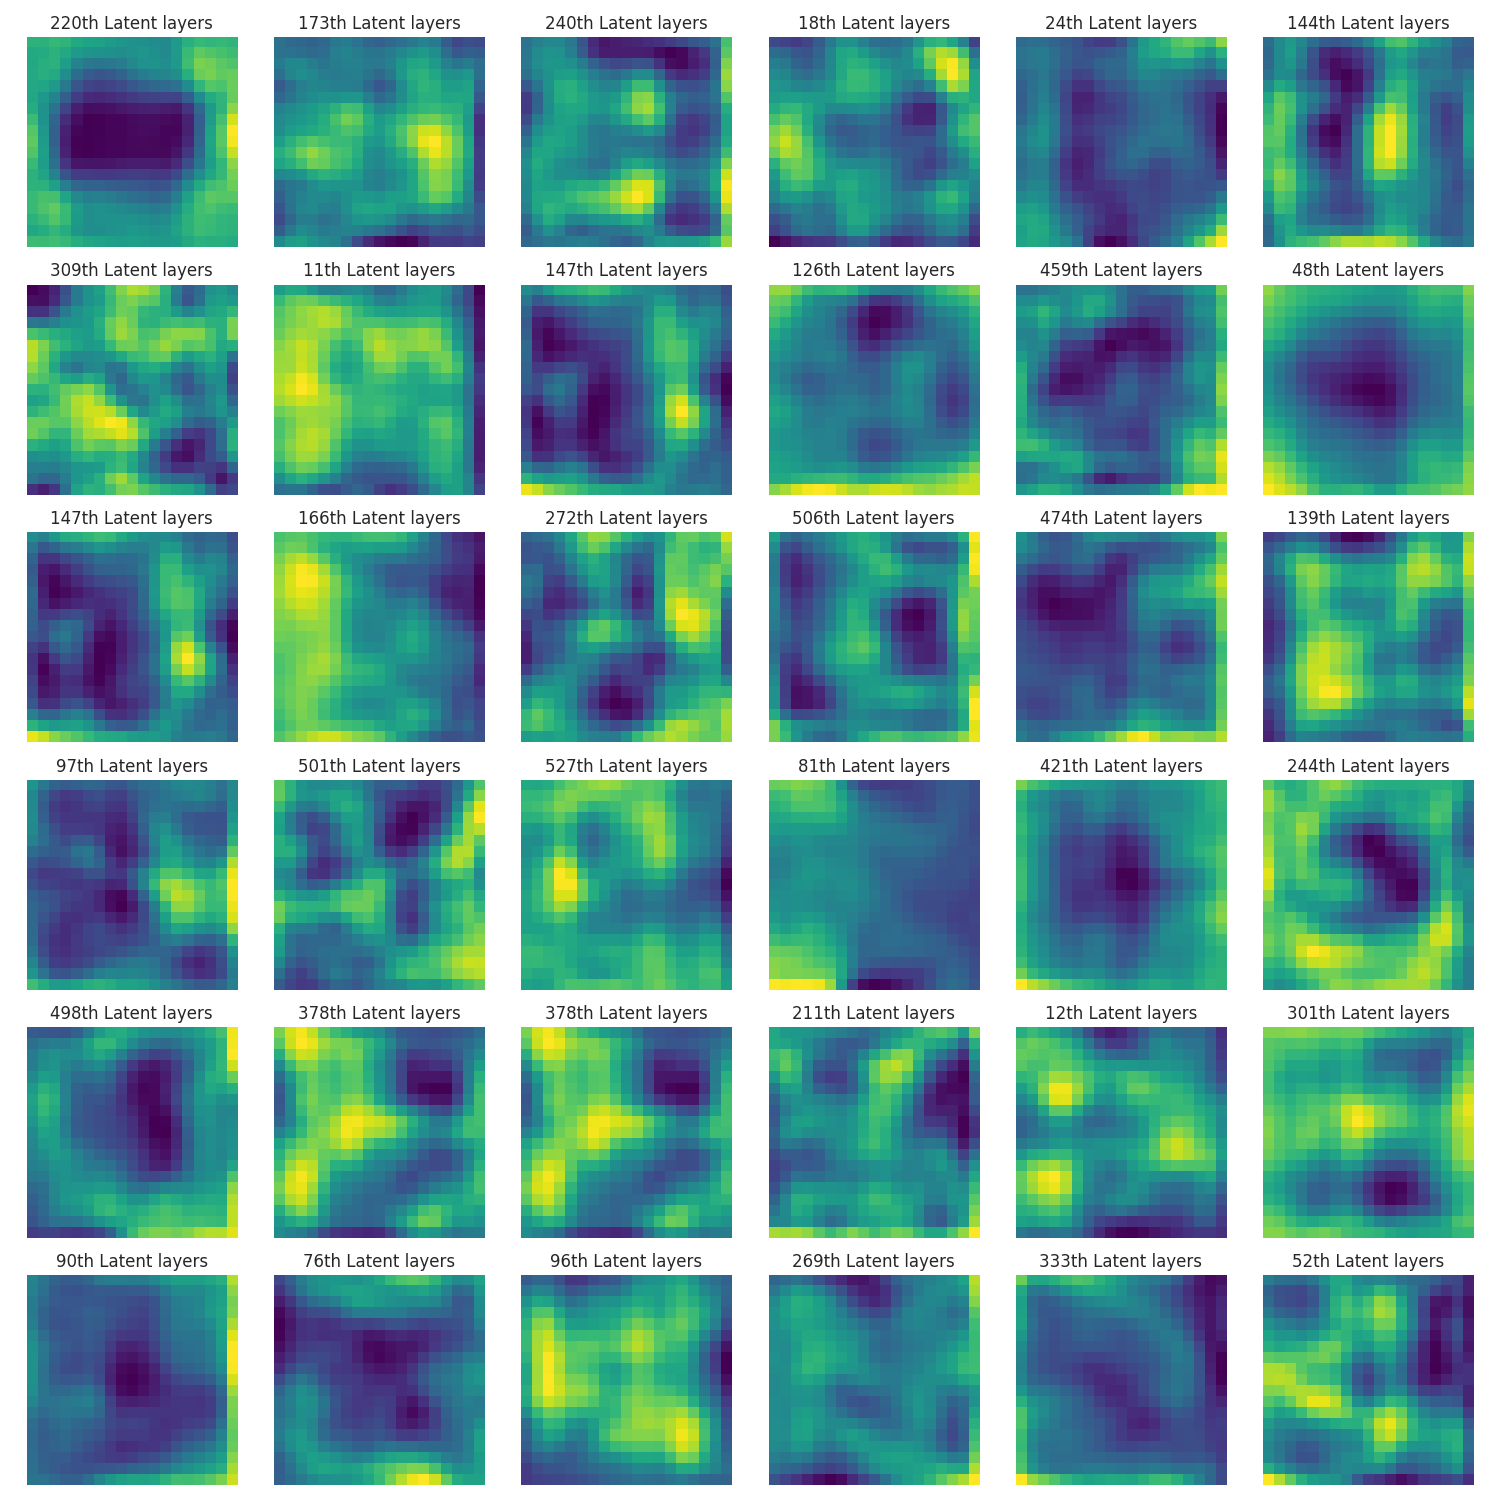
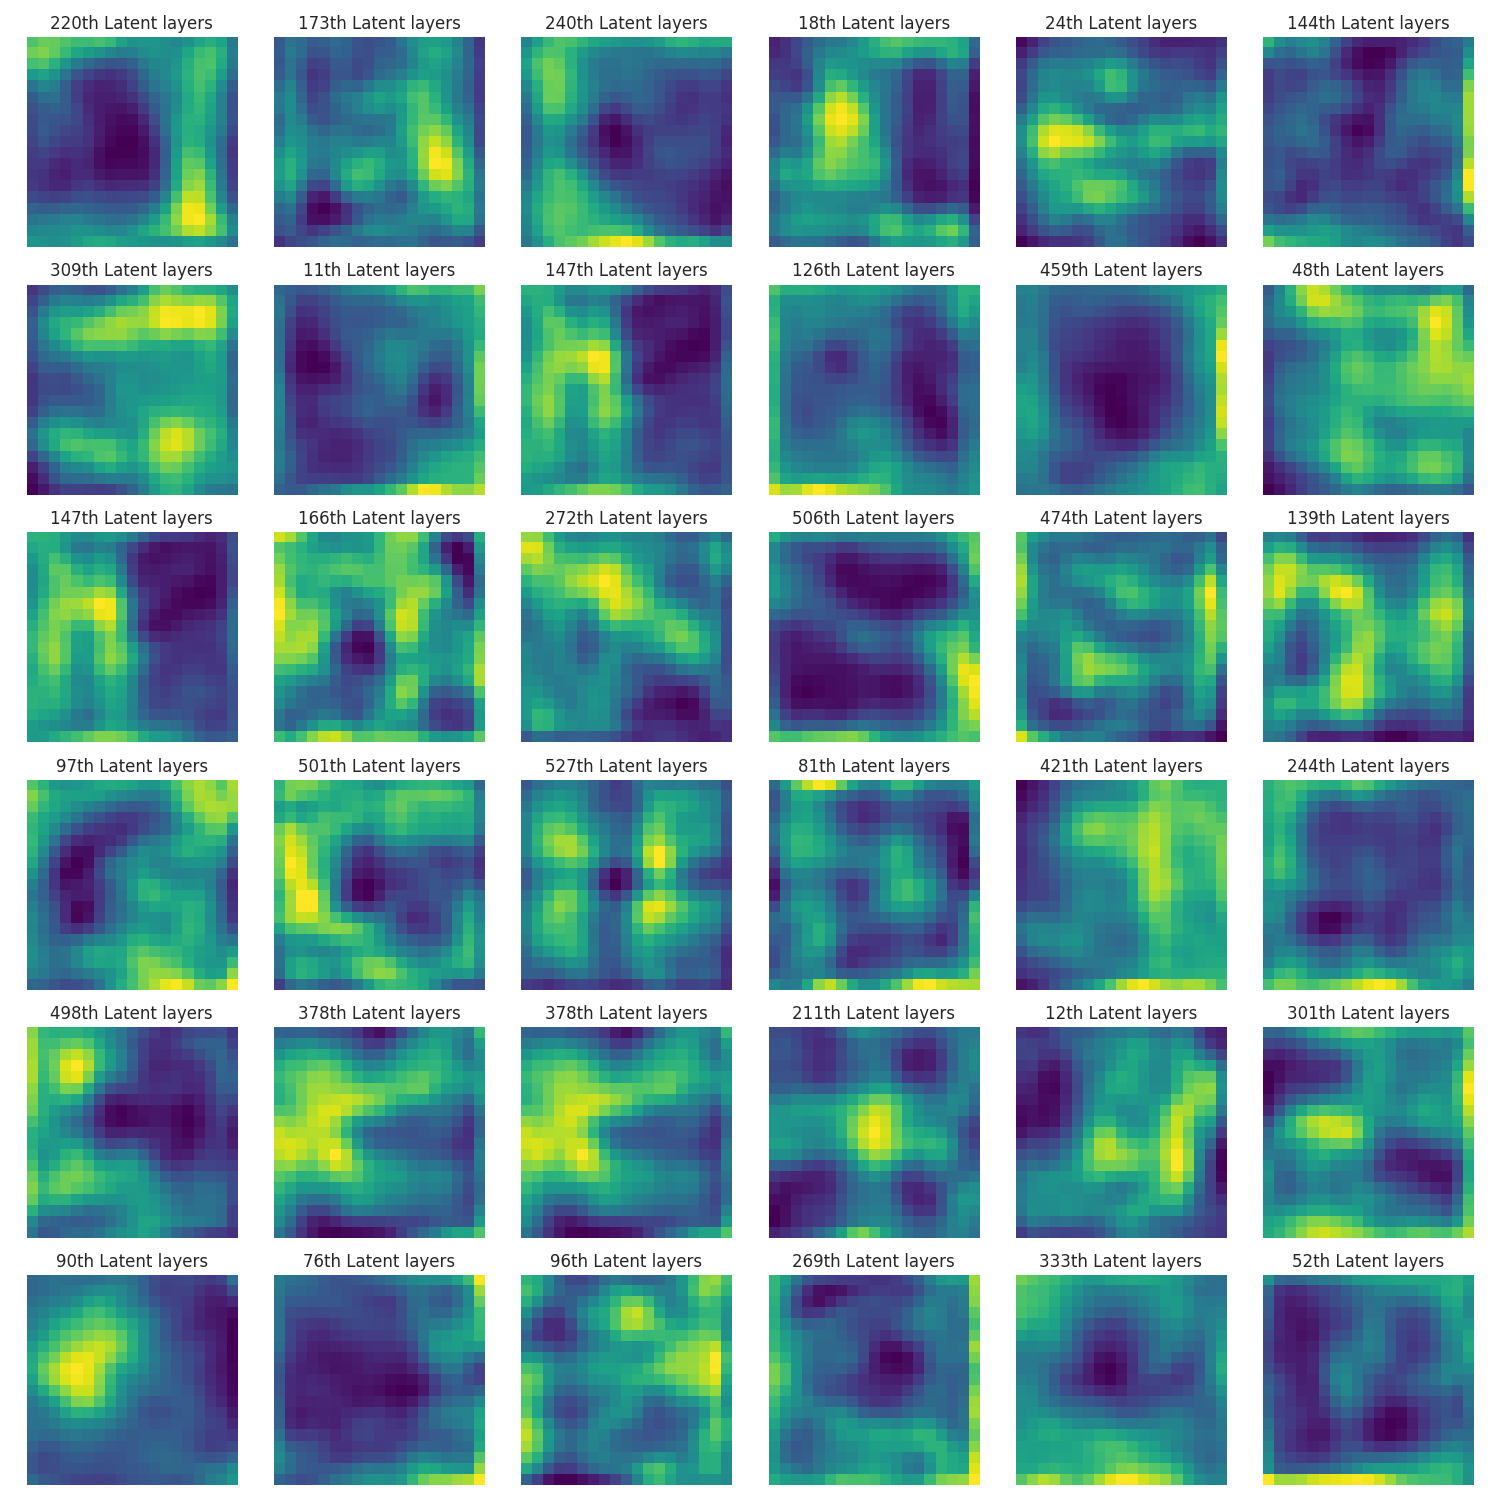
update

diff --git a/place-cell.py b/place-cell.py
@@ -265,18 +265,19 @@ def spatial_field( spaSen, model, sensor, z_dim):
                     ).detach().cpu().numpy().sum(0)
                 spa_tuning[ i, j, :] = z
     spa_tuning += eps_
-    return spa_tuning / spa_tuning.sum(2, keepdims=True)
+    return spa_tuning 
 
 def spatial_tuning( field_all, ind):
     '''Spatial tuning analysis
     '''
     ## Setup some hyper values
+    field_all /= field_all.sum(2, keepdims=True)
     nr = nc = 6 
     fig, axs = plt.subplots( nr, nc, figsize=( nc*2.5, nr*2.5))
     #ind = argmaxN( field_all.sum(1).sum(0), 36)
     for i, idx in enumerate(ind):
         # get cumulative activity of each units
-        tuning = field_all[ :, :, idx]
+        tuning = field_all[ :, :, idx] 
         # convolve with a one bin gaussian filter
         tuning_smooth = smooth( tuning)
         ax = axs[ i//nr, i%nr]
@@ -357,7 +358,7 @@ if __name__ == '__main__':
                 traj, _, _  = NaviTraj( seed).rollout( s, N=500, Verbose=False)
                 data  = torch.FloatTensor( sensor.state2obs( traj))
                 label = torch.FloatTensor( traj) #just a placeholder to use the dataloader
-                model, losses = trainAE( (data, label), model, LR=1e-3,
+                model, losses = trainAE( (data, label), model, LR=5e-4,
                                             SparsityReg=sr, SparsityPro=.03,
                                             L2Reg=0, if_gpu=True, BatchSize=64,
                                             MaxEpochs=10)
